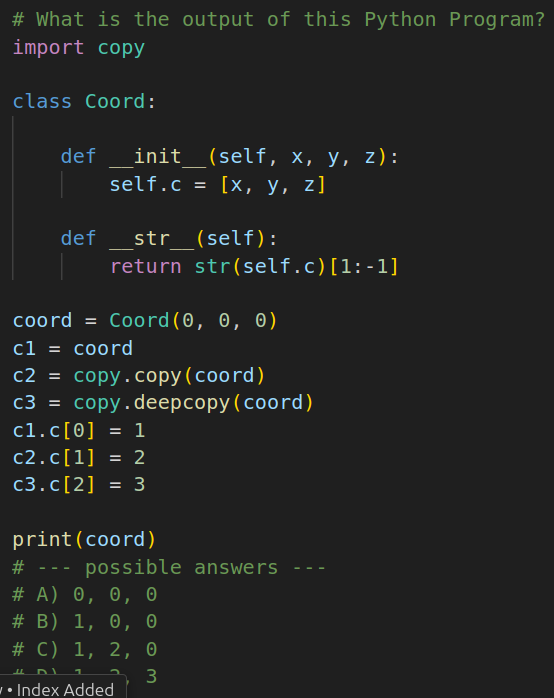
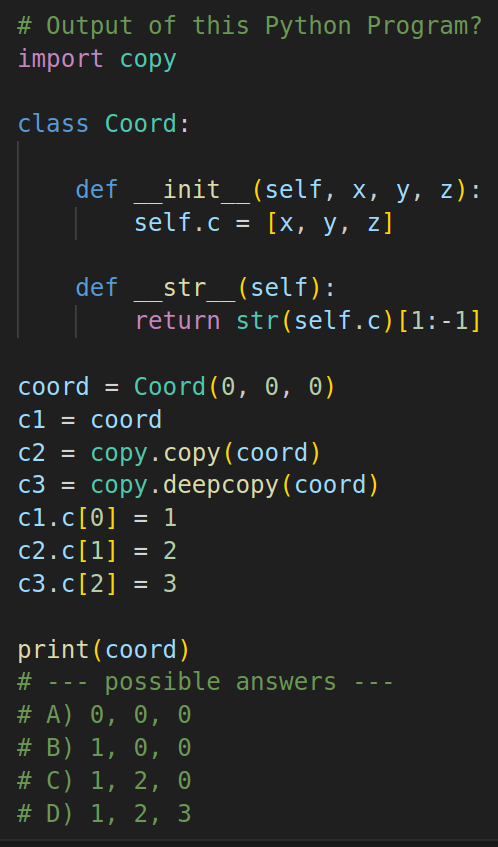
update

diff --git a/exercises/exercise10.py b/exercises/exercise10.py
@@ -1,5 +1,5 @@
 
-# What is the output of this Python Program?
+# Output of this Python Program?
 import copy
 
 class Coord:
